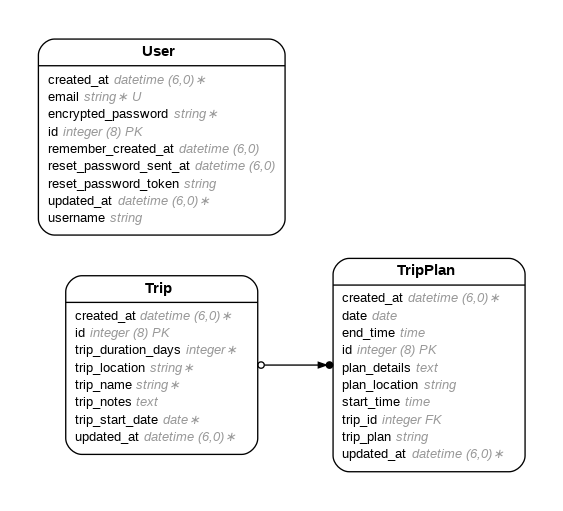
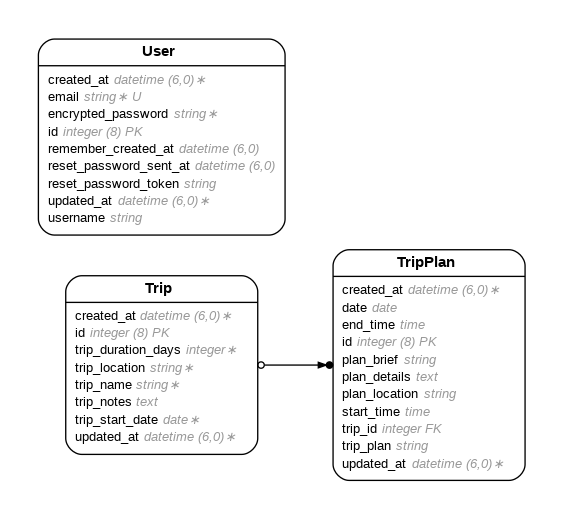
good

Changed region(s): [[0.0604, 0.0587, 0.5133, 0.4697], [0.4529, 0.4697, 0.9361, 0.9393], [0.0906, 0.5284, 0.4831, 0.91]]

diff --git a/app/assets/stylesheets/application.css b/app/assets/stylesheets/application.css
@@ -120,3 +120,119 @@
   align-items: center;
   gap: 8px;
 }
+
+
+
+/* tooltip */
+
+.plan-cell {
+  position: relative;
+}
+
+.plan-brief {
+  cursor: pointer;
+  position: relative;
+  display: inline-block;
+  /* text-decoration: underline dotted;
+  text-decoration-thickness: 1px;
+  text-underline-offset: 2px; */
+}
+
+.plan-brief::after {
+  content: "  ⓘ";            /* info symbol */
+  font-size: 0.85em;
+  opacity: 0.6;
+}
+
+.plan-full {
+  display: none;
+  position: absolute;
+  top: 100%;
+  left: 0;
+  background: white;
+  padding: 10px;
+  border: 1px solid #ddd;
+  border-radius: 8px;
+  width: 400px;
+  z-index: 10;
+  box-shadow: 0 4px 12px rgba(0,0,0,0.15);
+}
+
+.plan-brief:hover .plan-full {
+  display: block;
+}
+
+.plan-brief:hover::after {
+  opacity: 1;
+}
+
+
+/* pages */
+/* Container for carousel */
+.agenda-carousel {
+  position: relative;
+  width: 100%;
+}
+
+/* Only one day visible at a time */
+article.agenda-day {
+  display: none;
+}
+
+article.agenda-day.active {
+  display: block;
+}
+
+/* Arrows on left/right, centered vertically */
+.agenda-arrow {
+  position: absolute;
+  top: 50%;
+  transform: translateY(-50%);
+  z-index: 50;
+
+  background: white;
+  border: 1px solid #e5e7eb;
+  border-radius: 999px;
+  width: 40px;
+  height: 40px;
+  font-size: 20px;
+  font-weight: 600;
+  color: #333;
+
+  display: flex;
+  align-items: center;
+  justify-content: center;
+  cursor: pointer;
+  box-shadow: 0 2px 6px rgba(0,0,0,0.15);
+  transition: all 0.15s ease;
+}
+
+/* Left side */
+.agenda-arrow.left {
+  left: -16px;  /* move inward/outward as you like */
+}
+
+/* Right side */
+.agenda-arrow.right {
+  right: -16px;
+}
+
+/* Hover state */
+.agenda-arrow:hover:not(:disabled) {
+  background: #f9fafb;
+  transform: translateY(-50%) scale(1.08);
+}
+
+/* Disabled arrows */
+.agenda-arrow:disabled {
+  opacity: 0.3;
+  cursor: default;
+}
+
+/* Pagination label below */
+.agenda-pagination {
+  text-align: center;
+  margin-top: 12px;
+  font-size: 14px;
+  color: #555;
+}

diff --git a/app/controllers/trips_controller.rb b/app/controllers/trips_controller.rb
@@ -121,6 +121,7 @@ class TripsController < ApplicationController
                     "start_time": "HH:MM",
                     "end_time": "HH:MM",
                     "activity": "short description of the activity",
+                    "plan_brief": "the name of the activity, no more than 4 words"
                     "location": "Name of the location as listed on Google Maps, including street, city, country, and zip code",
                     "commute": "1–2 sentence explanation of how to get there (walking, metro, taxi, etc.). Include reservation or ticket guidance ONLY if it is strongly recommended before arrival."
                   }
@@ -132,7 +133,8 @@ class TripsController < ApplicationController
         Rules:
         - **date**: calendar date of that day of the trip
         - **start_time / end_time**: local time, 24-hour format "HH:MM"
-        - **activity**: brief 1–2 sentence description
+        - **activity**: brief 1–2 sentence description of the activity
+        - **plan_brief**: the name of the activity, no more than 4 words
         - **location**: Name of the location as listed on Google Maps, including street, city, country, and zip code
         - **commute**: brief 1–2 sentence note explaining how to get between items (walking, metro, taxi, etc.). Only include reservation or ticket guidance if they are strongly recommended before arrival—otherwise do not mention them
 
@@ -159,6 +161,7 @@ class TripsController < ApplicationController
               start_time: Time.parse(item[:start_time]),
               end_time: Time.parse(item[:end_time]),
               trip_plan: item[:activity],
+              plan_brief: item[:plan_brief],
               plan_location: item[:location],
               plan_details: item[:commute],
             )
@@ -238,6 +241,7 @@ class TripsController < ApplicationController
                     "start_time": "HH:MM",
                     "end_time": "HH:MM",
                     "activity": "short description of the activity",
+                    "plan_brief": "the name of the activity, no more than 4 words"
                     "location": "Name of the location as listed on Google Maps, including street, city, country, and zip code",
                     "commute": "1–2 sentence explanation of how to get there (walking, metro, taxi, etc.). Include reservation or ticket guidance ONLY if it is strongly recommended before arrival."
                   }
@@ -249,7 +253,8 @@ class TripsController < ApplicationController
         Rules:
         - **date**: calendar date of that day of the trip
         - **start_time / end_time**: local time, 24-hour format "HH:MM"
-        - **activity**: brief 1–2 sentence description
+        - **activity**: brief 1–2 sentence description of the activity
+        - **plan_brief**: the name of the activity, no more than 4 words
         - **location**: Name of the location as listed on Google Maps, including street, city, country, and zip code
         - **commute**: brief 1–2 sentence note explaining how to get between items (walking, metro, taxi, etc.). Only include reservation or ticket guidance if they are strongly recommended before arrival—otherwise do not mention them
 
@@ -276,6 +281,7 @@ class TripsController < ApplicationController
               start_time: Time.parse(item[:start_time]),
               end_time: Time.parse(item[:end_time]),
               trip_plan: item[:activity],
+              plan_brief: item[:plan_brief],
               plan_location: item[:location],
               plan_details: item[:commute],
             )

diff --git a/db/schema.rb b/db/schema.rb
@@ -10,7 +10,7 @@
 #
 # It's strongly recommended that you check this file into your version control system.
 
-ActiveRecord::Schema[8.0].define(version: 2025_12_10_034419) do
+ActiveRecord::Schema[8.0].define(version: 2025_12_11_012033) do
   # These are extensions that must be enabled in order to support this database
   enable_extension "pg_catalog.plpgsql"
 
@@ -166,6 +166,7 @@ ActiveRecord::Schema[8.0].define(version: 2025_12_10_034419) do
     t.text "plan_details"
     t.datetime "created_at", null: false
     t.datetime "updated_at", null: false
+    t.string "plan_brief"
   end
 
   create_table "trips", force: :cascade do |t|

diff --git a/app/models/trip_plan.rb b/app/models/trip_plan.rb
@@ -5,6 +5,7 @@
 #  id            :bigint           not null, primary key
 #  date          :date
 #  end_time      :time
+#  plan_brief    :string
 #  plan_details  :text
 #  plan_location :string
 #  start_time    :time

diff --git a/db/migrate/20251211012033_add_plan_brief_to_trip_plans.rb b/db/migrate/20251211012033_add_plan_brief_to_trip_plans.rb
@@ -1,0 +1,5 @@
+class AddPlanBriefToTripPlans < ActiveRecord::Migration[8.0]
+  def change
+    add_column :trip_plans, :plan_brief, :string
+  end
+end
